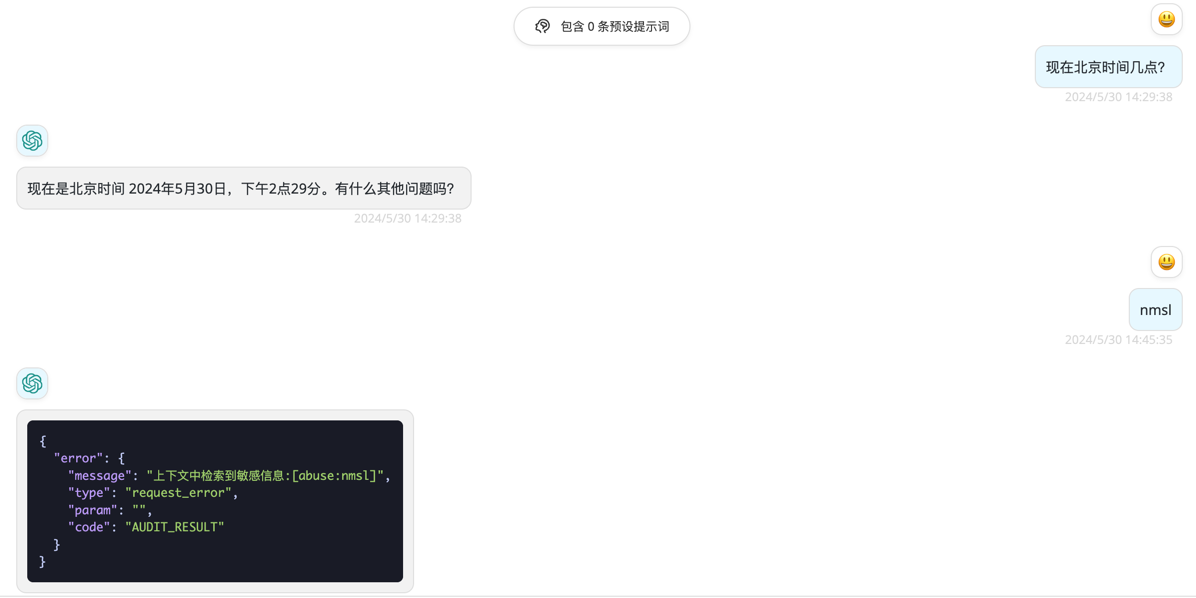
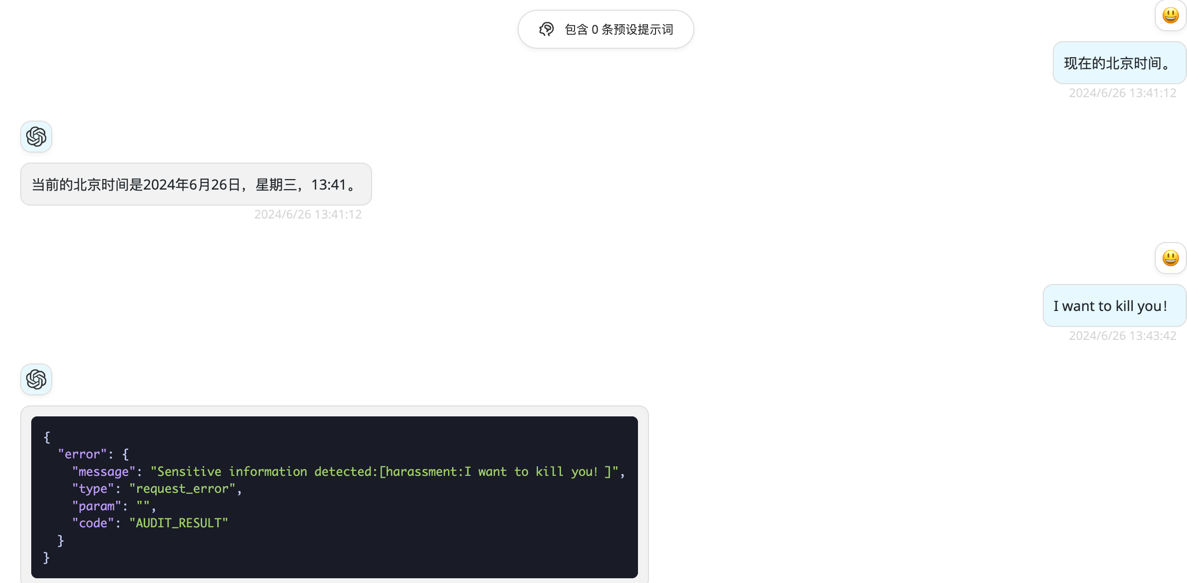
feat: ALL_DIALOG_RECORD_ENABLE

diff --git a/model/openai.go b/model/openai.go
@@ -1,5 +1,7 @@
 package model
 
+import "gpt-content-audit/common/config"
+
 type OpenAIChatCompletionRequest struct {
 	Model    string              `json:"model"`
 	Stream   bool                `json:"stream"`
@@ -95,12 +97,27 @@ type GetUserContent interface {
 
 func (r OpenAIChatCompletionRequest) GetUserContent() []string {
 	var userContent []string
-	for _, msg := range r.Messages {
-		switch contentObj := msg.Content.(type) {
-		case string:
-			userContent = append(userContent, contentObj)
+	if config.AllDialogRecordEnable == 1 {
+		for _, msg := range r.Messages {
+			if msg.Role == "user" {
+				switch contentObj := msg.Content.(type) {
+				case string:
+					userContent = append(userContent, contentObj)
+				}
+			}
+		}
+	} else {
+		for i := len(r.Messages) - 1; i >= 0; i-- {
+			if r.Messages[i].Role == "user" {
+				switch contentObj := r.Messages[i].Content.(type) {
+				case string:
+					userContent = append(userContent, contentObj)
+				}
+				break
+			}
 		}
 	}
+
 	return userContent
 }
 

diff --git a/common/config/config.go b/common/config/config.go
@@ -85,6 +85,7 @@ var QiNiuAuditContentLength = env.Int("QINIU_AUDIT_CONTENT_LENGTH", 4000)
 var OpenaiModerationBaseUrl = os.Getenv("OPENAI_MODERATION_BASE_URL")
 var OpenaiModerationApiKey = os.Getenv("OPENAI_MODERATION_API_KEY")
 var OpenaiModerationLabel = os.Getenv("OPENAI_MODERATION_LABEL")
+var AllDialogRecordEnable = env.Int("ALL_DIALOG_RECORD_ENABLE", 0)
 var OpenaiModerationAuditContentLength = env.Int("OPENAI_MODERATION_AUDIT_CONTENT_LENGTH", 4000)
 
 var DebugEnabled = strings.ToLower(os.Getenv("DEBUG")) == "true"

diff --git a/common/constants.go b/common/constants.go
@@ -3,4 +3,4 @@ package common
 import "time"
 
 var StartTime = time.Now().Unix() // unit: second
-var Version = "v1.0.1"            // this hard coding will be replaced automatically when building, no need to manually change
+var Version = "v1.0.2"            // this hard coding will be replaced automatically when building, no need to manually change

diff --git a/README.md b/README.md
@@ -128,6 +128,7 @@ Render 可以直接部署 docker 镜像,不需要 fork 仓库：[Render](https:/
 |        变量参数        |                        变量描述                         | 是否必填 | 
 |:------------------:|:---------------------------------------------------:|:----:|
 | AUDIT_CHANNEL_TYPE |   审核渠道类型[openai:openai、ali:阿里、baidu:百度、qiniu:七牛]    |  Y   |  
+| ALL_DIALOG_RECORD_ENABLE |             全量上下文审核开关[0:关闭、1:打开]（默认:0）              |  N   |  
 |      BASE_URL      | 审核通过后的转发接口请求地址域名或IP:端口（例如: https://api.openai.com ） |  Y   |
 |      API_KEY       |           鉴权密钥，与转发接口的API-Key保持一致，多个以`,`分隔           |  Y   |
 |       ENABLE       |               审核启用开关[0:关闭、1:打开]（默认:1）               |  N   |
